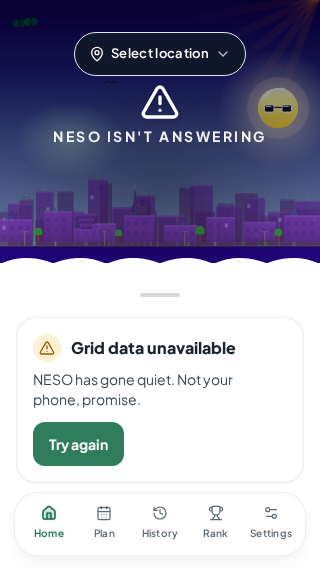
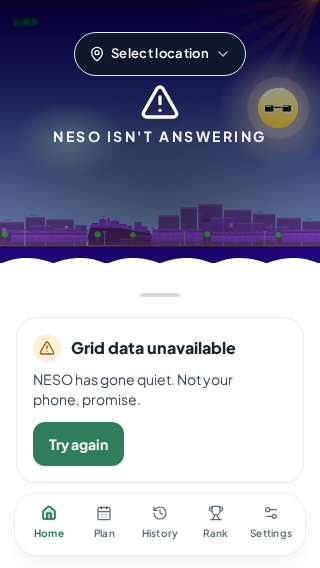
Synthwave contrast e2e: assert the scene's time of day (BH-113); refresh shots

Changed region(s): [[0.0, 0.2993, 1.0, 0.4489]]

diff --git a/e2e/sun-synthwave.spec.ts b/e2e/sun-synthwave.spec.ts
@@ -230,6 +230,8 @@ for (const viewport of [
       await page.goto('/');
       const scene = page.getByRole('region', { name: /Animated landscape/ });
       await expect(scene.locator('[data-scene-sun-tap]')).toBeVisible({ timeout: 30_000 });
+      // BH-113: page clock installed first, so this past instant applies.
+      await expect(scene).toHaveAttribute('data-time-of-day', label);
       await expect(page.getByTestId('hero-band-label')).toBeVisible({ timeout: 30_000 });
       const gauge = page.getByTestId('hero-gauge');
       const before = await gauge.getAttribute('data-hero-tone');
@@ -259,6 +261,7 @@ for (const viewport of [
       const outageScene = outage.getByRole('region', { name: /Animated landscape/ });
       await expect(outage.getByTestId('hero-warning-icon')).toBeVisible({ timeout: 30_000 });
       await expect(outageScene.locator('[data-scene-sun-tap]')).toBeVisible({ timeout: 15_000 });
+      await expect(outageScene).toHaveAttribute('data-time-of-day', label);
       await tripleTapSunDirect(outage);
       await expect(outageScene).toHaveAttribute('data-synthwave', 'on');
       await expect(outage.getByTestId('hero-gauge')).toHaveAttribute('data-hero-tone', 'light');
